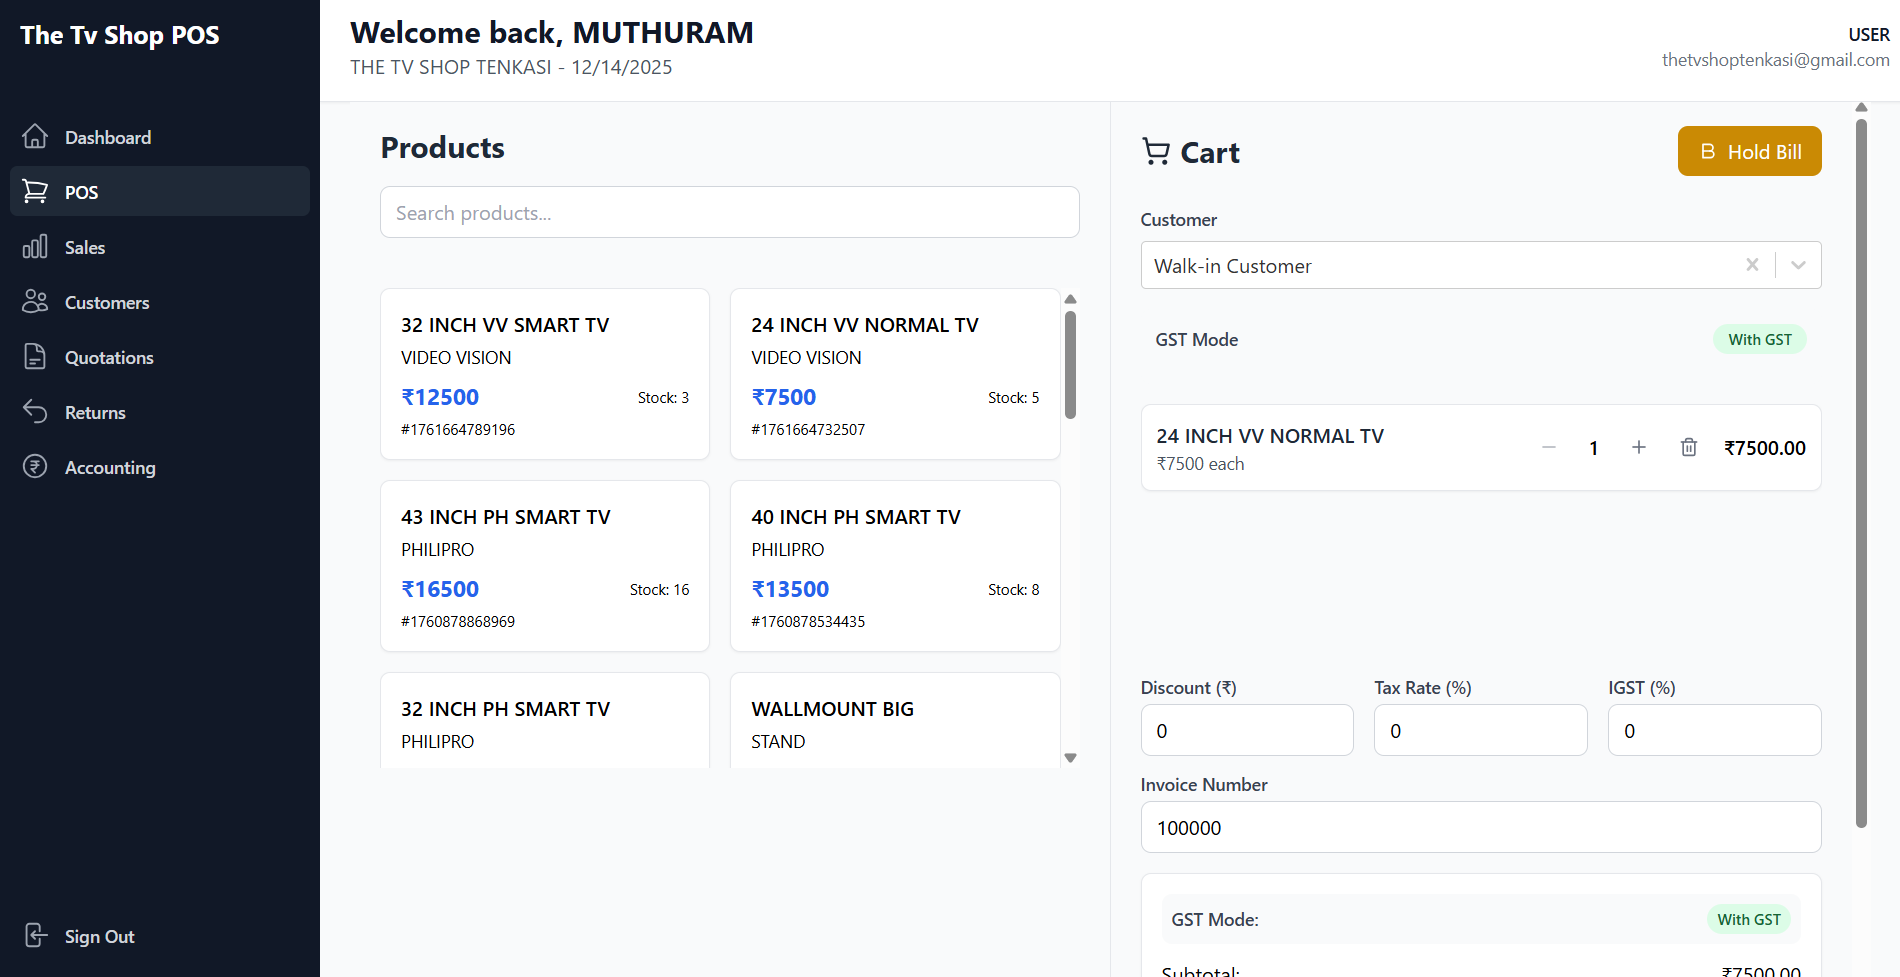
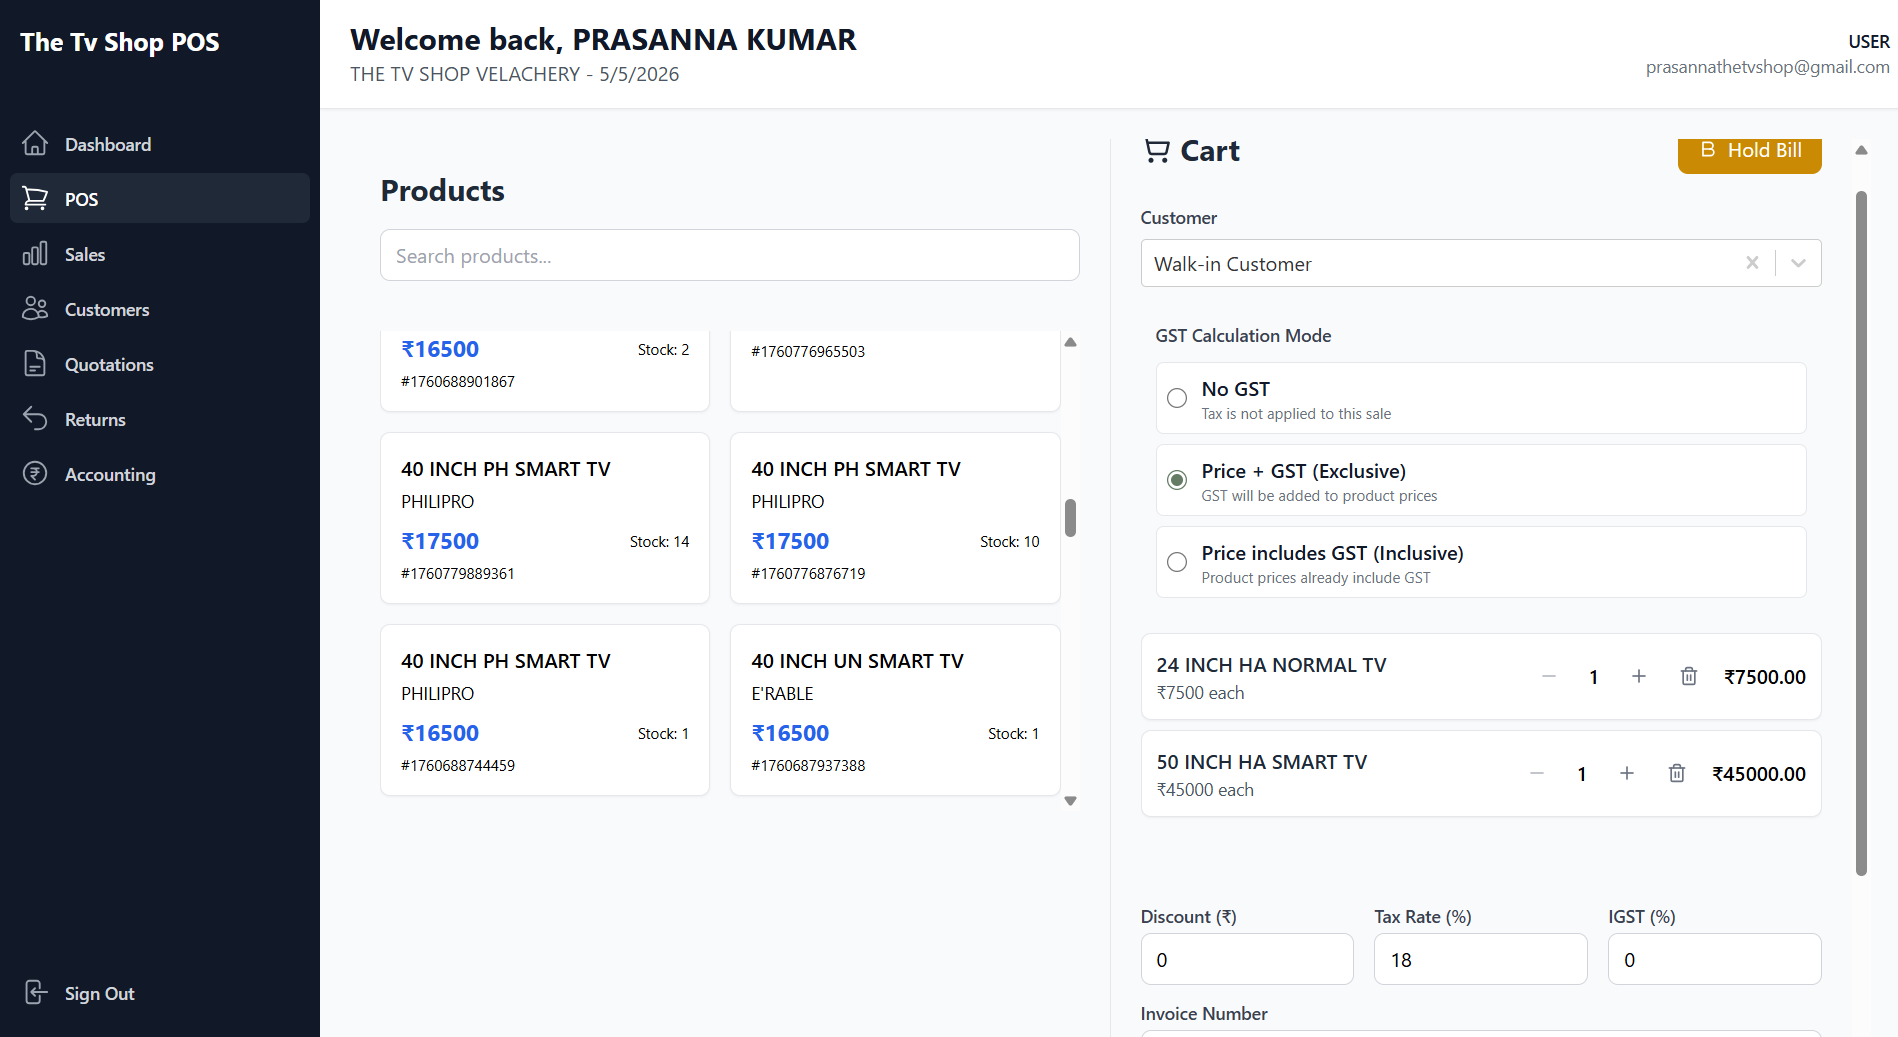
update info

diff --git a/src/components/portfolio/PortfolioBlock.js b/src/components/portfolio/PortfolioBlock.js
@@ -14,7 +14,7 @@ export default function PortfolioBlock({ project }) {
     platforms,
   } = project;
 
-  const showLive = status === "live" && live;
+  // const showLive = status === "live" && Array.isArray(live) && live.length > 0;
   const showSource = source;
 
   const statusLabel = (() => {
@@ -35,7 +35,7 @@ export default function PortfolioBlock({ project }) {
   })();
 
   const fallbackText = (() => {
-    if (project.tech?.some(t => t.toLowerCase().includes("ar"))) {
+    if (project.tech?.some((t) => t.toLowerCase().includes("ar"))) {
       return "Live Camera-Based AR System — Visuals Not Representative";
     }
     switch (status) {
@@ -59,7 +59,7 @@ export default function PortfolioBlock({ project }) {
         height: "100%",
         display: "flex",
         flexDirection: "column",
-        justifyContent: "space-between",
+        justifyContent: "flex-start",
         backgroundColor: theme.palette.background.paper,
         color: theme.palette.text.primary,
         boxShadow:
@@ -146,7 +146,11 @@ export default function PortfolioBlock({ project }) {
           <Typography
             variant="body2"
             textAlign="center"
-            sx={{ mt: 1, px: 1, fontSize: { xs: "0.8rem", sm: "0.85rem", md: "0.9rem" } }}
+            sx={{
+              mt: 1,
+              px: 1,
+              fontSize: { xs: "0.8rem", sm: "0.85rem", md: "0.9rem" },
+            }}
           >
             {description}
           </Typography>
@@ -154,7 +158,13 @@ export default function PortfolioBlock({ project }) {
 
         {/* Tech Stack */}
         {tech && (
-          <Box display="flex" flexWrap="wrap" justifyContent="center" gap={0.5} mt={1}>
+          <Box
+            display="flex"
+            flexWrap="wrap"
+            justifyContent="center"
+            gap={0.5}
+            mt={1}
+          >
             {tech.map((t, i) => (
               <Chip
                 key={i}
@@ -199,12 +209,36 @@ export default function PortfolioBlock({ project }) {
       </Stack>
 
       {/* Action Buttons */}
-      <Box display="flex" gap={2} mt={2} flexWrap="wrap" justifyContent="center">
-        {showLive && (
-          <ActionButton>
-            <IconLink link={live} title="Live Demo" icon="fa fa-safari" />
-          </ActionButton>
-        )}
+      <Box
+        display="flex"
+        gap={2}
+        mt={2}
+        flexWrap="wrap"
+        justifyContent="center"
+      >
+        {status === "live" &&
+          (Array.isArray(live) ? (
+            live.map((demo, i) => (
+              <ActionButton key={i}>
+                <IconLink
+                  link={demo.url}
+                  title={demo.label}
+                  icon={
+                    demo.label.toLowerCase().includes("android")
+                      ? "fa fa-android"
+                      : demo.label.toLowerCase().includes("ios")
+                      ? "fa fa-apple"
+                      : "fa fa-globe"
+                  }
+                />
+              </ActionButton>
+            ))
+          ) : (
+            <ActionButton>
+              <IconLink link={live} title="Live Demo" icon="fa fa-safari" />
+            </ActionButton>
+          ))}
+
         {showSource && (
           <ActionButton>
             <IconLink link={source} title="Source Code" icon="fa fa-code" />
@@ -224,10 +258,14 @@ function ActionButton({ children }) {
         minWidth: 110,
         borderRadius: "999px",
         border: `1.5px solid ${
-          theme.palette.mode === "dark" ? theme.palette.grey[400] : theme.palette.grey[800]
+          theme.palette.mode === "dark"
+            ? theme.palette.grey[400]
+            : theme.palette.grey[800]
         }`,
         color:
-          theme.palette.mode === "dark" ? theme.palette.grey[200] : theme.palette.grey[900],
+          theme.palette.mode === "dark"
+            ? theme.palette.grey[200]
+            : theme.palette.grey[900],
         display: "flex",
         alignItems: "center",
         justifyContent: "center",
@@ -243,8 +281,13 @@ function ActionButton({ children }) {
 
         "&:hover": {
           backgroundColor:
-            theme.palette.mode === "dark" ? theme.palette.grey[200] : theme.palette.grey[900],
-          color: theme.palette.mode === "dark" ? theme.palette.grey[900] : theme.palette.grey[100],
+            theme.palette.mode === "dark"
+              ? theme.palette.grey[200]
+              : theme.palette.grey[900],
+          color:
+            theme.palette.mode === "dark"
+              ? theme.palette.grey[900]
+              : theme.palette.grey[100],
         },
       })}
     >

diff --git a/src/info/Info.js b/src/info/Info.js
@@ -1,4 +1,5 @@
 import self from "../img/self.png"
+import pos from "../img/pos.png"
 import ecommerce from "../img/ecommerce.png"
 import restaurant from "../img/restaurant.png"
 import jobFair from "../img/jobFair.png"
@@ -64,8 +65,8 @@ export const info = {
             emoji: '📖'
         },
         {
-            label: 'cooking',
-            emoji: '🌶'
+            label: "long walks",
+            emoji: "🚶♂"
         },
         {
             label: 'badminton',
@@ -144,10 +145,15 @@ export const info = {
                     type: "professional",
                     access: "partial",
                     status: "live",
-                    live: "https://myumrahtrips.com",
-                    tech: ["React", "NodeJs", "Flutter", "Redux", "Provider"],
+                    live: [
+                        { label: "Web", url: "https://myumrahtrips.com" },
+                        { label: "iOS App", url: "https://apps.apple.com/in/app/my-umrah-trips/id6759250997" },
+                        { label: "Android App", url: "https://play.google.com/store/apps/details?id=com.techzurf.myumrahtripsapp" }
+                    ],
+                    platforms: ["Android", "iOS", "Web"],
+                    tech: ["React", "NodeJs", "Flutter", "MongoDB", "Redux", "Provider"],
                     image: umrahTrips,
-                    description: "Large-scale travel booking platform with multi-role architecture across web and mobile. Includes separate experiences for users, agents, admins, super admins, and marketing teams. Built and maintained two web applications and one Android application, with shared and role-specific features across platforms."
+                    description: "Large-scale travel booking platform across web and mobile (Android & iOS) with role-based systems for users, agents, admins, and marketing teams. Built and maintained scalable applications with shared APIs and role-specific workflows."
                 },
                 {
                     title: "Connect Masjid Mobile Application",
@@ -156,7 +162,9 @@ export const info = {
                     type: "professional",
                     access: "public",
                     status: "live",
-                    live: "https://play.google.com/store/apps/details?id=com.techzurf.demomasjid&hl=en_IN",
+                    live: [
+                        { label: "Android App", url: "https://play.google.com/store/apps/details?id=com.techzurf.demomasjid&hl=en_IN" }
+                    ],
                     platforms: ["Android"],
                     tech: ["Flutter", "NodeJs", "Provider", "MongoDB"],
                     image: connectMasjid,
@@ -169,8 +177,9 @@ export const info = {
                     type: "professional",
                     access: "restricted",
                     status: "internal",
+                    platforms: ["Web"],
                     tech: ["React", "NodeJs", "Redux"],
-                    // image: pos,
+                    image: pos,
                     description: "Role-based POS billing system supporting staff, inventory managers, admins, and super admins."
                 },
                 {
